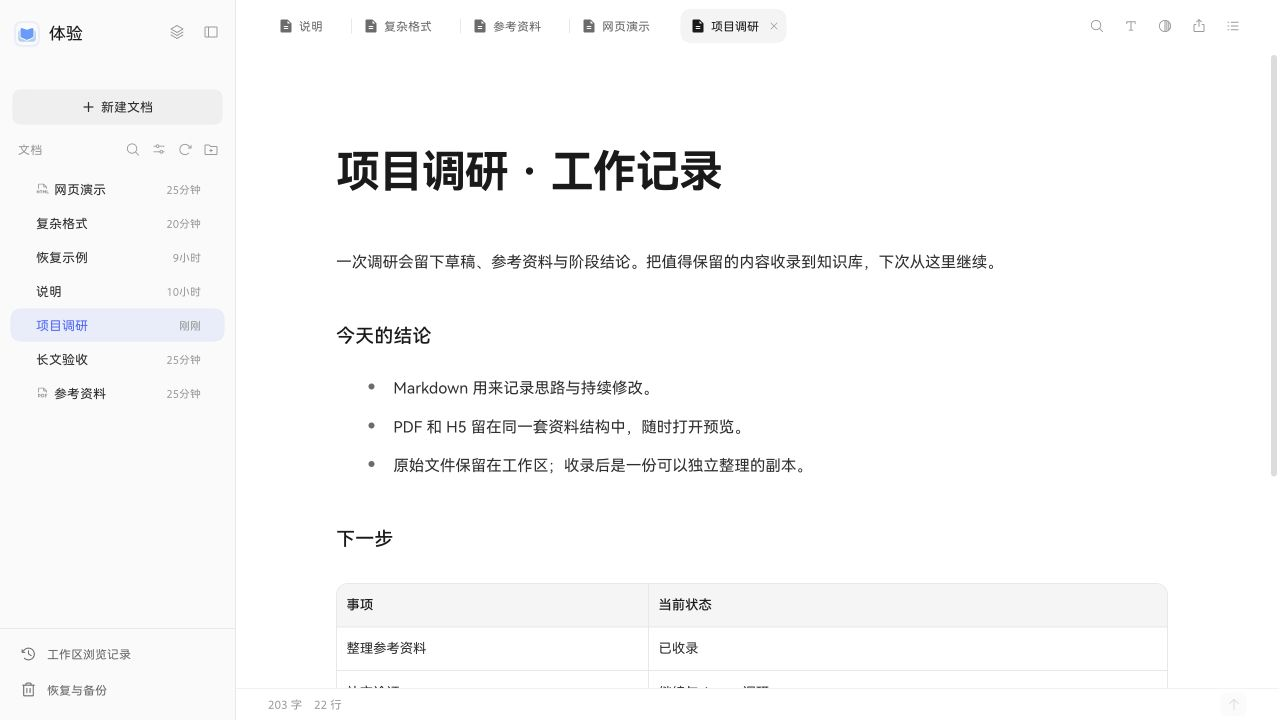
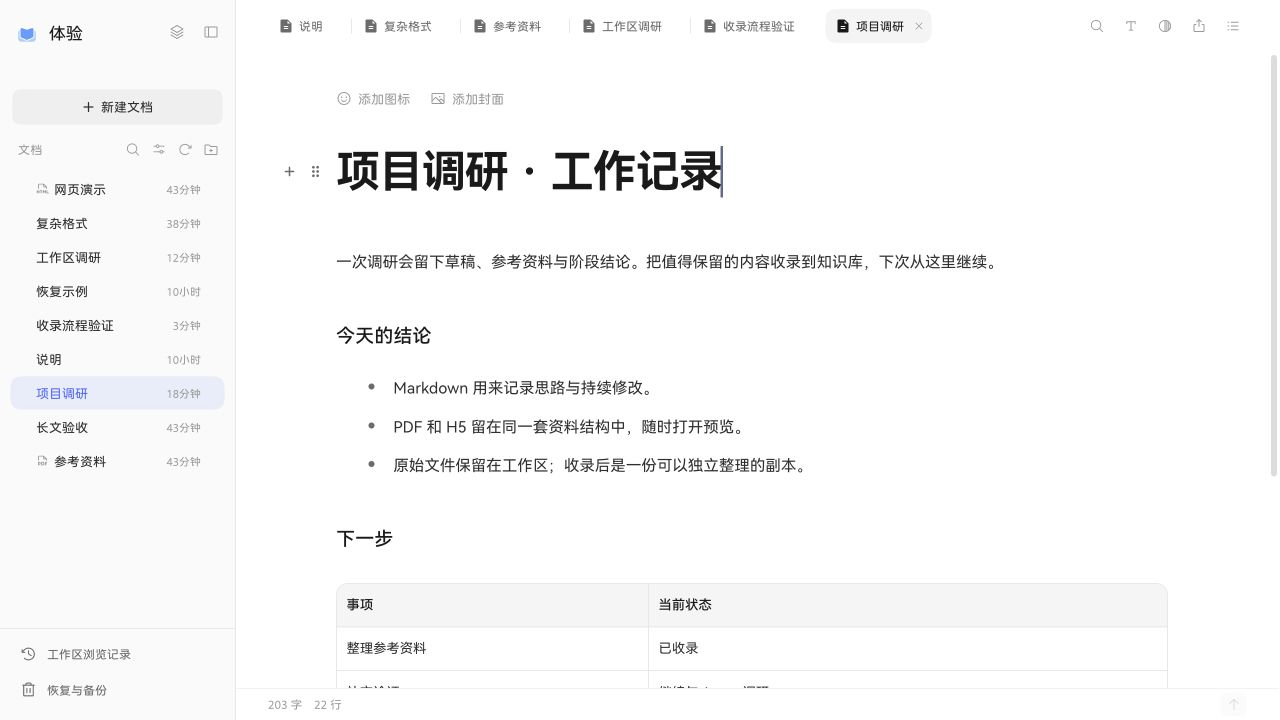
Document complete feedback build and verified release boundaries [skip ci]

diff --git a/docs/RELEASE-READINESS.md b/docs/RELEASE-READINESS.md
@@ -1,39 +1,36 @@
 # 正式版门槛与已知问题
 
-本轮是 `0.2.0-preview.1` 开发分支，不代表正式版发布或市场审核已完成。
+本轮是 `0.2.0-preview.1` 反馈分支；主要本机工作流程、恢复闭环和实际安装包已验收。还不能据此宣称所有平台的 1.0 正式版可发布。公开版本与交付服务器保持原样。
 
-## 平台
+## 平台证据
 
-| 平台 | 当前证据 | 发布前仍需做 |
+| 平台/环境 | 本轮证据 | 仍需外部验收 |
 | --- | --- | --- |
-| macOS | preview.2 曾在真实 DSH 安装；本轮真实 Node 服务生命周期与隔离浏览器测试通过 | 新包在 DSH 的升级、卸载重装和两工作区验收 |
-| Windows | 已实现平台数据目录、文件管理器分支；加入 CI 矩阵 | Windows DSH 真机安装、路径含中文空格、Explorer 定位、升级 |
-| Linux | 已实现 XDG 数据路径、xdg-open 分支；加入 CI 矩阵 | 宿主可用性和桌面环境实测 |
+| macOS | 官方 DSH 安装器及 DSH NEXT 2.0.16-next 所带 Web 宿主，旧包升级、新包卸载重装、中文空格路径、固定端口和旧文档保留 | 两个原生 DSH 桌面窗口并行；完整原生应用冷启动体验 |
+| Windows | 平台数据目录与 Explorer 分支、Node 24 CI 矩阵 | Windows DSH 真机安装、文件定位、升级与桌面行为 |
+| Linux | XDG 路径、xdg-open 分支、Node 24 CI 矩阵 | 目标 DSH 宿主和桌面环境实测 |
+| 窄屏 Web | 420px 实际 iframe 中搜索、收录、二级返回、正文检查 | 不等于 iOS DSH 插件支持，DSH 插件仍是桌面入口 |
 
-CI 配置已添加，远程运行结果须在推送后查看；不能把配置文件存在当成三平台已通过。移动浏览器阅读与 DSH 桌面插件是不同的支持范围。
+macOS/Windows/Ubuntu 的 Node 24 全套远程 CI 已通过；运行结果见 [验证记录](VERIFICATION-2026-10-04.md)。CI 能验证运行代码与打包，不能证明 Finder/Explorer 或原生窗口交互。
 
-## 本轮已验证
+## 已完成的闭环
 
-- 临时数据目录的真实服务启动、同库复用、停止、重启地址保持、端口冲突拒绝替代。
-- 历史公开地址、公开内容过滤、父级权限、示例编辑、事务恢复、Agent 作用域、工作区收录。
-- 隔离浏览器中历史版本预览与恢复保存，420px 窄视口弹窗、Esc 关闭与返回入口焦点。
-- 实际 `.tgz` 解包后的服务生命周期测试通过；包内未发现知识库数据库、服务记录、管理密码或分享配置。
-- 安装包约 59.9 MB，313 个文件；这次未做字体裁剪。
-- 人工制造外部文件更新与本地编辑冲突，验证保留两份内容、确认后采用磁盘版本。
-- 回收站恢复、同名冲突拒绝、默认私有、稳定标识和列宽保留、整库删除恢复；本机备份及独立目录恢复。
-- 由旧版代码创建测试库，再由新代码打开与备份恢复，验证正文、稳定标识和页面设置保留；这不是完整 DSH 安装升级验收。
-- 类型契约检查和生产构建。
+- 工作区预览、收录独立副本、整理、检索、Agent 限范围再次读写；来源说明明确。
+- 稳定服务地址、同库复用、连接离线提示、冲突拒绝；不静默换空库。
+- Markdown 正常阅读与编辑；复杂格式先完整阅读，再主动源码编辑；PDF 随包阅读器和 H5 隔离预览。
+- 历史差异、当前修改保护、回收站新旧记录恢复、完整备份、恢复后打开独立副本。
+- 实际 tgz 包解压后启动；无知识库数据库、密码、授权或个人交付内容；补齐字体/PDF 资产许可。
+- 生产构建、类型边界、权限、旧公开路由、事务恢复、生命周期和完整工作流程回归。
 
-## 正式版前优先处理
+## 已知限制与正式版优先门槛
 
-1. **恢复后的数据目录切换**：本轮已补回收站、完整备份及独立副本恢复界面；跨机器导入、旧回收记录原路径缺失、恢复后自动切库仍待完善。
-2. **安装包级更新验收**：不能只跑源码和 mock 测试。用旧包创建数据，再安装新包验证正文、图片、页面设置、阅读偏好和授权。
-3. **编辑无损范围**：复杂 Markdown 的源码保护仍较突兀；保留保护，继续改善阅读与源码切换，不能承诺所有语法都可无损富文本编辑。
-4. **分享可达性**：临时公网链接依赖 cloudflared 和网络，真实外部设备验收尚未完成。本阶段不扩大协作能力。
-5. **性能基线**：较大的字体和编辑器包仍存在，应测长文、冷启动和低配机器，再决定拆分，不凭包大小推断所有用户都会卡顿。
+1. **旧版第一次升级的阅读偏好**：preview.2 未持久化端口，首次升级可能变更浏览器 origin，使主题等站点偏好重置一次；原文和知识库设置保留。新版本后续重启与重装保持地址。
+2. **跨平台原生宿主**：必须在 Windows/Linux 真实 DSH 环境验证后再作完整支持承诺。macOS 本轮使用官方安装链与 Web 宿主，不冒充全部原生桌面交互已测。
+3. **外网分享**：依赖 cloudflared、网络与本机持续运行；真实外部设备端到端连通性尚未验收。本地地址不能当作外网交付链接。
+4. **编辑范围**：复杂 Markdown 保留源码模式，不保证任意语法无损富文本编辑。PDF 无批注/编辑；加密 PDF 提示外部打开；H5 不授予同源访问能力。
+5. **备份边界**：本机同盘备份不是异地备份；跨机器导入仍使用命令。备份时外部编辑器直接写文件不受 Reader 锁控制，应暂停外部写入。
+6. **性能与包体**：安装包约 60.67 MB；已做可复现本机基线，尚无低配机器和超大库证据，不作普遍性能承诺。
 
-## 后续维护
+## 维护计划
 
-逐步拆分大型导航与 API 模块；TypeScript 从契约与新增模块开始扩展。旧个人交付路由和历史部署产物暂时保留，待交付结束后再配置化清理。已有 public/demo 产物不能未经核对删除。
-
-版本发布必须明确：本轮改了什么、验证过什么、仍有什么限制。暂不将本分支部署到正在使用的笔试题交付站点。
+保留 Vue/Vite/Node/SQLite，逐步扩展 TypeScript 的实际业务边界和旧大组件拆分，不为形式重写全工程。历史个人交付路由与产物等面试交付结束再清理。新反馈版先由用户确认体验，再决定正式发布和服务器更新。

diff --git a/docs/VERIFICATION-2026-10-04.md b/docs/VERIFICATION-2026-10-04.md
@@ -1,0 +1,67 @@
+# 2026-10-04 反馈版验证记录
+
+## 环境与隔离
+
+- 分支：`product-v1-foundation`，版本 `0.2.0-preview.1`，尚未发布。
+- macOS，Node.js 24.19.0；DSH NEXT 2.0.16-next，内含 DSH 0.2.0-rc.1。
+- UI 使用独立 8197 服务与临时测试知识库；安装验收使用独立 DSH_HOME/profile，数据路径包含中文和空格。
+- 原仓库仍为 `8c9e50e54948f0bda6893594ad4fd22571f05d7e`，工作区干净；未写入个人笔试题文档，未重启 8090，未部署服务器或替换公开包。
+
+## 实际安装与升级
+
+通过 DSH NEXT 自带官方插件安装命令安装 `0.1.0-preview.2`，在其界面创建测试文档，再升级到新包。随后卸载插件、核对数据仍在、重装新包，并启动 DSH NEXT 自带 Web 宿主。
+
+- 旧测试文档 SHA-1 始终为 `1214c1a5b42a2a1f99c1e374979f18d248f8af52`。
+- 新版本记录端口 49327，宿主重启与卸载重装后继续使用相同地址；真实 `/api/instance` 返回 Reader。
+- 独立包解压运行检查：522 个文件，60.67 MB；页面、服务、PDF worker/CMap/字体与许可齐全；排除数据库、密码、服务记录、分享配置及个人知识库数据。
+- 旧版本未保存端口，因此第一次升级会从旧随机端口转到新固定端口；站点阅读偏好可能重置一次。知识库正文与页面元数据不因此丢失。
+
+以上不是 Windows/Linux 原生桌面或两个原生 DSH 窗口的验收。实际 Node 双消费者测试验证同库复用、停止非拥有者不杀服务、拥有者重启与端口冲突拒绝。
+
+## 自动回归
+
+本机通过：`check`、`typecheck`、`test:access`、`test:readonly`、`test:block`、`test:fold`、`test:routes`、`test:plugin`、`test:transfer`、`test:lifecycle`、`test:user-recovery`、`test:workflow`、`test-workspace.mjs`、`test-recovery.mjs`、`test:upgrade`、生产构建及最终 `test-package.mjs`。
+
+- 完整工作流程使用真实 HTTP 和插件 Agent 适配器：预览→私有副本→整理→检索→读取来源→更新；越权和过期版本被拒绝，原文件不变。
+- 恢复测试包括旧回收文件、同名冲突、非法路径、默认私有、稳定 ID 与页面设置、独立恢复目录、凭据排除和恢复阅读器实际打开。
+- 升级测试使用原仓库代码建立旧数据，再由新代码打开并备份恢复。
+
+### 远程 CI
+
+三平台 Node 24 矩阵已在 GitHub 实际执行。首次运行发现 DOMPurify 直接依赖范围与 override 精确版本不一致，导致干净 `npm ci` 失败；已经统一为 `3.4.16`，临时干净目录复验安装解析通过。第二轮 macOS/Linux 功能测试通过，CI 打包参数误写为 workspace 选择器；Windows 权限检查通过后因测试数据库句柄未关闭而清理失败。两处已修复，Windows 目录逃逸测试改用系统支持的 junction。第三轮 macOS/Linux 全部通过；Windows 检出改名时把系统反斜杠写入内部路径键的问题，已统一为 `/`，继续用原有稳定标识、权限和附件测试验证。随后修复 Windows tar 清单的 CRLF 解析。最终提交 `52ff76e67f489fd56b5970e55c471b47b6c91c9f` 在 macOS、Windows、Ubuntu 三个平台全部通过，包括干净安装、构建、全部功能测试、打包和解包后的真实服务启动。
+
+[最终 CI：三平台全部通过](https://github.com/bigricedumpling/deepseek-reader/actions/runs/37179466583)。后续仅补文档和截图，运行代码与该次验收一致。
+
+## 界面复查
+
+使用真实浏览器操作，不只读取源码：
+
+- 复杂 Markdown 的脚注、公式、HTML、表格与 Mermaid 阅读；切换源码并保存；版本对比出现相应新增行。
+- PDF 画布和可选择文字实际显示；H5 演示页面按钮可交互。
+- 完整备份创建、恢复、打开独立阅读器；原库保留。
+- 420px 同源测试框中搜索不被侧栏遮挡；收录弹层可操作；Escape 只关闭最上层并返回上一层入口。
+- 发现并修复收录到当前知识库后目录未刷新、文档错误只读的问题；复验新文档为可编辑正文，窄屏侧栏自动收起。
+- 发现并修复复杂格式回退页面未复用正常排版、图表文字被清理、CJK 间距修改 HTML 属性的问题。
+- 屏幕截图使用专用示例数据，见 [实际界面](screenshots/workspace.png)。
+
+## 性能基线
+
+命令：`npm run measure:performance`。两次本机测量范围，301 文档，总正文 5,993,295 字节：
+
+| 项目 | 测量 |
+| --- | --- |
+| 服务启动就绪 | 43–82 ms |
+| 目录请求 | 60–101 ms |
+| 588,905 字节长文读取 | 5–6 ms |
+| 全库无命中搜索 | 31–51 ms |
+| 8 个并行文档读取 | 4–7 ms |
+
+另在真实浏览器打开 500 小节 Markdown，确认 500 个二级标题渲染；一次工具观察约 256 ms，包含自动化开销，**不是标准化渲染性能指标**。这些结果只作后续比较基线，不能外推低配机器或超大知识库。
+
+## 交付判断
+
+本轮实现与本机验收范围见 [18 项台账](IMPLEMENTATION-REVIEW.md)。可供用户完整反馈；正式版还需平台原生宿主、外网分享及低配环境等明确列出的证据。保留 [已知问题](RELEASE-READINESS.md)，不把外部环境缺口藏成已完成。
+
+## 同步状态
+
+代码提交到 GitHub 的隔离分支，未合并主分支或发布安装包。Gitea 连接返回证书过期，保持 TLS 校验，没有绕过；待服务器证书恢复后再同步。

diff --git a/docs/IMPLEMENTATION-REVIEW.md b/docs/IMPLEMENTATION-REVIEW.md
@@ -1,26 +1,26 @@
-# 完整反馈版执行与验收台账
+# 完整反馈版：18 项验收台账
 
-约束：仅 product-v1-foundation 隔离分支与测试数据；不覆盖笔试题正文、不替换 8090 和线上交付、不移除旧路由。完成整轮后统一交付，不以局部修补代替流程验收。
+本轮版本：`0.2.0-preview.1`，隔离分支 `product-v1-foundation`。未替换 8090、线上交付或公开安装包。以下「完成」指本轮实现与列明的验收范围，不等于所有平台正式发布。
 
-| 项 | 本轮完成标准 | 状态 |
+| 项 | 本轮结果 | 验收依据与边界 |
 |---|---|---|
-| 1 定位 | 新用户入口、文档、导航一致表达个人本地文档工具 | 待验收 |
-| 2 完整任务 | 工作区查看→收录→整理→找回→Agent再次读写 | 待验收 |
-| 3 内容关系 | 原文件/记录/副本/更新来源表达清楚 | 待验收 |
-| 4 分享 | 当前状态与只读快照、示例编辑机制分开 | 待验收 |
-| 5 地址 | 重启保留 origin、偏好与标签 | 待验收 |
-| 6 旧连接 | 离线不换库、连接恢复路径清楚 | 待验收 |
-| 7 编辑 | 不兼容Markdown先能阅读，可主动源码编辑，保留无损保护 | 待实现 |
-| 8 历史 | 版本预览、差异与恢复保护 | 待完善 |
-| 9 回收 | 新旧记录恢复、安全冲突、布局元数据 | 待完善 |
-| 10 备份 | 创建、检查、恢复、再次打开的闭环 | 待完善 |
-| 11 冲突 | 保留副本/采用远端/手动合并，键盘可操作 | 待验收 |
-| 12 类型 | 核心新边界实际使用类型检查 | 待完善 |
-| 13 模块 | 抽离独立业务，降低大组件新增耦合 | 待完善 |
-| 14 性能 | 记录启动、长文、多文档、包体基线并解决有证据的问题 | 待测量 |
-| 15 CI | 真实包、权限、内容、异常与升级检查，不把配置当结果 | 待完善 |
-| 16 安装平台 | 隔离宿主安装与升级；环境缺失逐项如实标明 | 待验证 |
-| 17 体验 | 菜单/弹层/状态/返回/焦点/窄屏，MD/PDF/H5覆盖 | 待审查 |
-| 18 文档发布 | 用户指南、变化、支持边界、截图与安装包一致 | 待完善 |
+| 1 定位 | 完成 | README、产品定义、使用指南统一为人与 Agent 的个人本地文档工作台；Markdown 主体、PDF/H5 辅助 |
+| 2 完整任务 | 完成 | 实际 HTTP 工作区预览→收录→移动整理→检索→限范围 Agent 读取/更新；UI 同库收录后可编辑 |
+| 3 内容关系 | 完成 | 收录副本、文档信息与来源记录；原文件校验不变；不暗示双向同步 |
+| 4 分享 | 完成范围内调整 | 只读快照、手动更新；不可用隧道入口明确状态；旧示例编辑与路由回归通过。公网外部设备连通性仍待验收 |
+| 5 地址 | 完成 | 隔离宿主新版本重启/重装保持 49327；真实生命周期测试保留 origin。旧 preview.2 首次升级可能重置站点偏好，已记录 |
+| 6 旧连接 | 完成 | 已接入服务离线不改用另一空库，端口冲突明确失败；不迁移原有资料 |
+| 7 编辑 | 完成 | 复杂 MD 阅读、源码编辑、公式/脚注/HTML/图表实际浏览器检查；不静默格式转换 |
+| 8 历史 | 完成 | 预览、增删对比与全文查看；恢复前保留当前修改，写入受版本冲突保护 |
+| 9 回收 | 完成 | 新记录恢复原位置；旧记录选择目标；同名/非法路径拒绝、默认私有、稳定 ID 与页面设置保留 |
+| 10 备份 | 完成 | 创建→恢复独立目录→打开恢复副本；实际 HTTP 页面打开与原库未变验证；跨机器导入仍用命令 |
+| 11 冲突 | 完成 | 外部变更与本地修改冲突实测；保留副本、采用磁盘版本与手动处理，弹层键盘焦点管理 |
+| 12 类型 | 完成渐进范围 | 契约、实际 HTTP/历史请求 TypeScript 与运行时返回校验；不是全工程 TypeScript 迁移 |
+| 13 模块 | 完成渐进范围 | 抽离工作区记录、Markdown 阅读、PDF 阅读/目录、历史/差异、回收与恢复服务；旧大组件仍待逐步拆分 |
+| 14 性能 | 完成基线 | 301 文档约 6 MB 数据集；启动/检索/长文/并行请求记录；500 小节实际浏览器渲染；包体 60.67 MB |
+| 15 CI | 完成 | 本机完整套件与最终 tgz 通过；GitHub macOS/Windows/Ubuntu 干净安装、全部回归与实际包运行全部通过，链接见验证记录 |
+| 16 安装平台 | 本机宿主验收完成 | 官方 DSH 安装器 + DSH NEXT 所带 Web 宿主，旧包→新包→卸载重装，中文空格路径；Windows/Linux 原生桌面及原生双窗口待外部环境 |
+| 17 体验 | 完成本轮复查 | 主次弹层、Escape 逐层返回、恢复流程、420px 搜索/收录、复杂 MD、PDF 文字层和 H5 交互；修复收录后的目录/只读状态与窄屏返回正文 |
+| 18 文档发布 | 完成反馈材料 | 使用指南、背景定位、版本变化、数据恢复、截图、第三方资产和已知问题；本轮为待用户反馈分支，未发布正式版 |
 
-不得将待办删掉后称为完成。无法完成的外部验收须写明环境和已有替代证据。
+详细环境、测量与仍需外部证据的项目见 [验证记录](VERIFICATION-2026-10-04.md) 和 [正式版门槛](RELEASE-READINESS.md)。

diff --git a/docs/THIRD-PARTY-ASSETS.md b/docs/THIRD-PARTY-ASSETS.md
@@ -7,7 +7,8 @@
 | Noto Sans SC | Google Fonts / @fontsource/noto-sans-sc | `fonts/Noto-Sans-SC-LICENSE.txt`，SIL OFL 1.1 |
 | Noto Serif SC | Google Fonts / @fontsource/noto-serif-sc | `fonts/Noto-Serif-SC-LICENSE.txt`，SIL OFL 1.1 |
 | 寒蝉楷书 ChillKai | https://github.com/Warren2060/Chillkai | `fonts/ChillKai-LICENSE.txt`，SIL OFL 1.1 |
-| HarmonyOS Sans | public/fonts 内原有资产与授权说明 | 保留原有许可文件 |
+| HarmonyOS Sans | Huawei / public/fonts 原有资产 | `fonts/HarmonyOS-Sans-LICENSE.txt` |
+| TeX Gyre Pagella | GUST / TeX Gyre | `fonts/GUST-FONT-LICENSE.txt` |
 | PDF.js、CMap、标准字体与 WASM | pdfjs-dist / Mozilla PDF.js | `pdfjs/LICENSE` 与各资产目录的上游许可 |
 
 旧工程中的 `Weixin.otf` 未找到可核验的再分发许可记录，因此 0.2 新构建与插件包排除该文件；页面只在用户系统已安装时使用本地字体，其他情况回退系统字体。历史交付产物不在本次变更范围。

diff --git a/CHANGELOG.md b/CHANGELOG.md
@@ -7,7 +7,7 @@
 - 重写产品定位、安装入口、内容关系、数据恢复与发布边界说明。
 - 按数据目录保存服务身份与端口；重启保持原地址，端口冲突不切换空库。
 - 已连接的旧 Reader 离线时明确报错，不静默改用另一目录。
-- 补 Windows/Linux 数据目录和安装平台声明；实际桌面验收仍待完成。
+- 补 Windows/Linux 数据目录和安装平台声明，修复 Windows 改名/移动时内部路径分隔符不一致；实际桌面验收仍待完成。
 - 增加回收站、完整备份和恢复副本界面；恢复不覆盖同名内容，回收内容默认不公开。
 - 增加文档历史预览/恢复入口和公共确认弹窗的键盘焦点管理。
 - 冲突处理中可明确选择磁盘版本；tooltip 不再因鼠标点击后的焦点事件重复出现。
